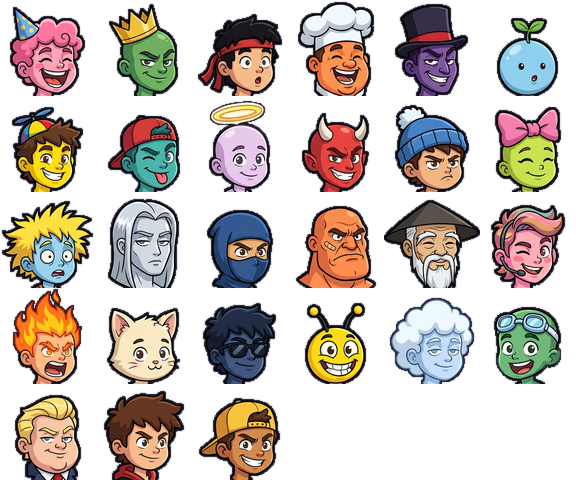
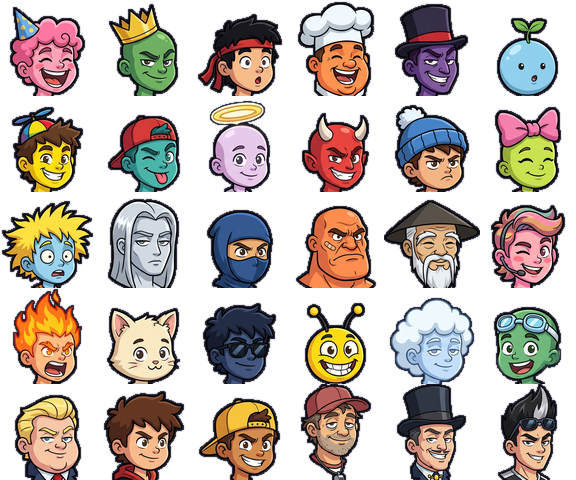
언더독 피구 v=37: 몸통 그림 14자세(달리기 4장·던지기·만세·공 들기·점프), 팀색 입히기, NPC 얼굴 3명(모 코치·개발업자·반스)
- 그린 몸 시트 art_game/body/body_{hi,lo}.webp (몸 그림 + 팀색/피부색 마스크), 팀×피부 조합마다 한 번만 칠해 캐시
- 달리기는 달린 거리에 맞춰 4장 순환, 공 들기 자세는 그림 속 공을 쓰고 게임 공은 숨김
- 노란 팀 + 노란 피부는 옷 색을 20% 어둡게
- 모 코치·개발업자·반스 = G.CHARS 27..29 (스토리 전용, 로스터 밖)
- ?oldbody=1 로 옛 몸

Changed region(s): [[0.6875, 0.7812, 0.8125, 1.0], [0.5, 0.7812, 0.6562, 1.0], [0.8438, 0.7812, 0.9688, 1.0]]

diff --git a/games/wobble-dodge/js/render.js b/games/wobble-dodge/js/render.js
@@ -79,12 +79,13 @@
      shows faces, so heads never pop mid-rally. G.faceHeads = false -> the old drawn heads (A/B and fallback). */
   var HD = { ok: false, img: null, white: null, cell: 64, n: 24 }, FR = 13.5 * 1.4, COSM = { star: 1, flower: 1, wizard: 1, pirate: 1, viking: 1, goldcrown: 1 };
   // tight box of each face inside its cell, in 1/64 cell units (x, y, w, h): only these pixels are drawn (about half the cell = half the raster work)
-  var HBOX = [8,5,48,59,9,3,45,61,4,10,55,54,7,2,49,62,8,3,47,61,12,12,39,52,9,7,46,57,8,13,47,51,12,4,40,60,10,11,43,53,8,6,48,58,10,7,43,57,2,6,59,58,9,5,46,59,10,13,43,51,6,9,52,55,1,7,62,57,8,9,48,55,10,1,44,63,8,14,48,50,8,10,48,54,12,11,39,53,5,7,54,57,10,13,43,51,10,8,43,56,6,5,52,59,5,10,53,54];   // heads_match sheet, all 27 G.CHARS (art_new/tools/match.py -> match_js.txt)
+  var HBOX = [8,5,48,59,9,3,45,61,4,10,55,54,7,2,49,62,8,3,47,61,12,12,39,52,9,7,46,57,8,13,47,51,12,4,40,60,10,11,43,53,8,6,48,58,10,7,43,57,2,6,59,58,9,5,46,59,10,13,43,51,6,9,52,55,1,7,62,57,8,9,48,55,10,1,44,63,8,14,48,50,8,10,48,54,12,11,39,53,5,7,54,57,10,13,43,51,10,8,43,56,6,5,52,59,5,10,53,54,9,1,45,63,9,1,45,63,13,1,38,63];   // heads_match sheet, all 30 G.CHARS incl. story NPCs 27..29 (art_new/tools/match.py -> match_js.txt)
   G.faceHeads = true; G.headSheet = HD;
   var VQ = (/\?v=[^&#]*/.exec((document.currentScript && document.currentScript.src) || '') || [''])[0];
   (function () {
     var vq = VQ;
     function go() {
+      loadBody();   // the illustrated body sheet comes with the faces (a match switches to both at once)
       var im = new Image(); im.decoding = 'async';
       im.onload = function () {
         function fin() {
@@ -109,8 +110,8 @@
   })();
   function useFaces(M) {
     if (!M.waitInput || M.st > 0.3) HD.kick();   // the tutorial now starts by itself (no tap): fetch during its intro so it never runs with old heads
-    if (M.fh === undefined) { if (HD.ok && G.faceHeads) M.fh = 1; else if (M.state === 'play' && !M.waitInput) M.fh = 0; }
-    else if (M.fh === 0 && HD.ok && G.faceHeads && M.state !== 'play') M.fh = 1;   // sheet came late: switch at the next break (KO / intro), never mid-rally
+    if (M.fh === undefined) { if (HD.ok && G.faceHeads && bodyReady(M)) M.fh = 1; else if (M.state === 'play' && !M.waitInput) { if (HD.ok && G.faceHeads && BODY.ok) { while (!prebake(M)); M.fh = 1; } else M.fh = 0; } }   // play began before the spread-out bakes finished (no intro): bake the rest now, once
+    else if (M.fh === 0 && HD.ok && G.faceHeads && bodyReady(M) && M.state !== 'play') M.fh = 1;   // sheet came late: switch at the next break (KO / intro), never mid-rally
     return M.fh === 1 && G.faceHeads;
   }
   function headSprite(c, b, e, now) {   // in head space (origin = head centre, x = facing, 1 unit = z*hs)
@@ -134,7 +135,7 @@
      team-colour jersey, white shorts + belly stripe) in a hip->neck frame; plain fills measured cheaper than strokes or a
      rotated sprite. No shadows / filters. LITE tier: no ink under legs / back arm (front arm + jersey keep theirs).
      Cost vs the stick bodies: 검증/body_perf.mjs (G.cartoonBody = false draws the old renderer for A/B). */
-  var SKIN = ['#fca5b8', '#72b263', '#f7bb89', '#fd9552', '#7c579a', '#8eceed', '#fdde0a', '#4bb4a9', '#e8c9eb', '#e4433e', '#f3b584', '#c9e251', '#9ad3ed', '#d3dae2', '#36588d', '#fd8d4e', '#e7ba88', '#feacb3', '#febc84', '#fae9c5', '#43567c', '#fddc13', '#c3defb', '#71b87b', '#f8c7a6', '#f9bb8b', '#d38b4d'];   // arm/neck colour sampled from the heads_match art (G.CHARS order, 27)
+  var SKIN = ['#fca5b8', '#72b263', '#f7bb89', '#fd9552', '#7c579a', '#8eceed', '#fdde0a', '#4bb4a9', '#e8c9eb', '#e4433e', '#f3b584', '#c9e251', '#9ad3ed', '#d3dae2', '#36588d', '#fd8d4e', '#e7ba88', '#feacb3', '#febc84', '#fae9c5', '#43567c', '#fddc13', '#c3defb', '#71b87b', '#f8c7a6', '#f9bb8b', '#d38b4d', '#f2b88c', '#f4c29d', '#f4c39a'];   // arm/neck colour sampled from the heads_match art (G.CHARS order, 30; Coach Mo hand-set: the sampler hit his stubble)
   var TORSO = {}, TL = 31, OL = 2.3;   // neck-hip length in skeleton units, ink outline thickness
   // local frame: hip = (0,0), neck = (0,-TL); o grows the shape by o on every side (for the ink silhouette)
   function jersey(P, th, o) {
@@ -228,11 +229,132 @@
     c.strokeStyle = INK; c.lineWidth = ow * 1.1; c.stroke(); c.strokeStyle = flash ? '#fff' : uni; c.lineWidth = lw * 1.15; c.stroke(); c.lineCap = 'round';
   }
   G.cartoonBody = true;
+  /* ---------- illustrated body (2026-11-09): art_game/body/body_{hi,lo}.webp, made by art_new/tools/body.py from art_new/body6_gemini_v1.png
+     + body8_gemini_v1.png (normalised to the same scale by the neck-stump width). 14 side-view poses, facing right, headless; the face
+     sheet head sits on the neck stump: idle, run (single, spare), wind-up, catch, hit, KO lying, run cycle x4, release, cheer, hold ball, jump.
+     The sheet has 3 rows: art / kit mask / skin mask. Per (team colour, skin) one row is baked ONCE (GPU composite: mask x colour
+     'multiply', clipped by the mask) and cached, so a frame is still one drawImage per body.
+     The skeleton still runs underneath (ball hand, hit tests, ragdoll); the sprite borrows its spring wobble (rotation), its bob / squash
+     (vertical scale) and the ragdoll torso angle. Running = the 4-frame cycle stepped by distance (one cycle per drawn stride, so the feet
+     do not slide). ?oldbody=1 or G.spriteBody = false -> the drawn cartoon body. */
+  var BM = {};
+  BM['hi'] = { rh: 243, m: [0.0, 56.0, 161.0, 187.0, 78.4, 3.3, 70.9, 76.2, 185.1, 167.0, 44.0, 150.0, 199.0, 91.5, 3.9, 76.3, 73.3, 197.1, 323.0, 35.0, 189.0, 208.0, 84.8, 15.9, 84.9, 90.0, 206.1, 518.0, 53.0, 180.0, 190.0, 84.2, 3.6, 63.2, 81.8, 188.1, 704.0, 30.0, 243.0, 213.0, 97.7, 42.0, 119.5, 101.4, 211.2, 953.0, 178.0, 192.0, 65.0, 188.4, 24.6, 117.9, 27.9, 63.6, 1151.0, 53.0, 162.0, 190.0, 95.2, 4.2, 79.4, 74.1, 188.6, 1319.0, 67.0, 159.0, 176.0, 92.6, 4.2, 73.6, 71.6, 174.0, 1484.0, 55.0, 158.0, 188.0, 102.9, 3.9, 82.2, 79.5, 186.6, 1648.0, 44.0, 154.0, 199.0, 88.6, 3.9, 72.4, 75.4, 197.0, 1808.0, 58.0, 217.0, 185.0, 108.5, 4.2, 89.4, 72.6, 183.1, 2031.0, 6.0, 161.0, 237.0, 84.8, 51.9, 88.3, 118.9, 235.7, 2198.0, 44.0, 119.0, 199.0, 43.8, 4.2, 38.4, 85.7, 197.7, 2323.0, 60.0, 175.0, 183.0, 101.0, 4.5, 85.3, 64.8, 181.1] };
+  BM['lo'] = { rh: 125, m: [0.0, 32.0, 80.0, 93.0, 39.2, 1.6, 35.4, 38.1, 92.5, 86.0, 26.0, 75.0, 99.0, 45.8, 1.9, 38.1, 36.7, 98.5, 167.0, 21.0, 95.0, 104.0, 42.4, 7.9, 42.4, 45.0, 103.0, 268.0, 30.0, 90.0, 95.0, 42.1, 1.8, 31.6, 40.9, 94.0, 364.0, 19.0, 121.0, 106.0, 48.9, 21.0, 59.8, 50.7, 105.6, 491.0, 92.0, 96.0, 33.0, 94.2, 12.3, 58.9, 13.9, 31.8, 593.0, 30.0, 81.0, 95.0, 47.6, 2.1, 39.7, 37.0, 94.3, 680.0, 37.0, 79.0, 88.0, 46.3, 2.1, 36.8, 35.8, 87.0, 765.0, 31.0, 79.0, 94.0, 51.5, 1.9, 41.1, 39.8, 93.3, 850.0, 26.0, 77.0, 99.0, 44.3, 1.9, 36.2, 37.7, 98.5, 933.0, 33.0, 109.0, 92.0, 54.2, 2.1, 44.7, 36.3, 91.5, 1048.0, 6.0, 80.0, 119.0, 42.4, 26.0, 44.1, 59.5, 117.8, 1134.0, 25.0, 60.0, 100.0, 21.9, 2.1, 19.2, 42.9, 98.8, 1200.0, 34.0, 88.0, 91.0, 50.5, 2.3, 42.6, 32.4, 90.6] };
+  // per pose (idle run throw catch hit out run0 run1 run2 run3 release cheer hold jump): box x,y,w,h, neck x,y, torso x,y, feet y (sheet px, relative to the box except x,y)
+  var BP = { idle: 0, run: 1, windup: 2, cat: 3, hit: 4, ko: 5, run0: 6, release: 10, cheer: 11, hold: 12, jump: 13 };
+  var STRIDE = 92;   // skeleton units the drawn feet travel in one 4-frame run cycle (2 steps; run0/run2 contact spread x2)
+  var BODY = { ok: false, fail: false, go: 0, img: null, m: null, rh: 0, u: 1, cache: {}, nc: 0 };
+  G.spriteBody = !/[?&]oldbody=1/.test(location.search); G.bodySheet = BODY;
+  function loadBody() {
+    if (BODY.go || !G.spriteBody) return; BODY.go = 1;
+    var hi = (window.devicePixelRatio || 1) >= 1.5 && !G.lite, S = BM[hi ? 'hi' : 'lo'], im = new Image(); im.decoding = 'async';
+    im.onload = function () { function fin() { BODY.img = im; BODY.m = S.m; BODY.rh = S.rh; BODY.u = 71 / (S.m[8] - S.m[5]); BODY.ok = true; } if (im.decode) im.decode().then(fin, fin); else fin(); };   // u = skeleton units per sheet px (idle: neck->feet = 71 units)
+    im.onerror = function () { BODY.fail = true; };
+    im.src = 'art_game/body/body_' + (hi ? 'hi' : 'lo') + '.webp' + VQ;
+  }
+  function bodyReady(M) { return !G.spriteBody || BODY.fail || (BODY.ok && (!M || prebake(M))); }
+  function kitOf(b, uni) { var C = G.CHARS[b.ch], F = C && C.fit ? FIT[C.fit] : null; return F ? F.top : uni; }
+  function prebake(M) {   // bake each body's colour row ahead, ONE a frame (a bake ~16 ms at CPU x4, software canvas), before the match switches to sprites
+    if (M.bodyBaked) return true; var n = 0, all = true;
+    for (var i = 0; i < M.bodies.length; i++) {
+      var b = M.bodies[i], td = b.team ? M.team : M.myTm || G.MYTEAM, kit = kitOf(b, td.uni), sk = SKIN[b.ch];
+      if (BODY.cache[kit + sk]) continue;
+      if (n++ < 1) bodyRow(kit, sk); else all = false;
+    }
+    if (!BODY.cache.flash) { if (n++ < 1) bodyRow('flash', ''); else all = false; }   // the white hit-flash row too
+    return (M.bodyBaked = all);
+  }
+  function rgbOf(h) { var x = h.length === 4 ? '#' + h[1] + h[1] + h[2] + h[2] + h[3] + h[3] : h, n = parseInt(x.slice(1), 16); return isNaN(n) ? null : [n >> 16, (n >> 8) & 255, n & 255]; }
+  function kitVsSkin(kit, skin) {   // a kit too close to the skin (yellow team + yellow kid) melts into one blob: darken that kit 20%
+    var a = rgbOf(kit), b2 = rgbOf(skin); if (!a || !b2) return kit;
+    var d = Math.sqrt(Math.pow(a[0] - b2[0], 2) + Math.pow(a[1] - b2[1], 2) + Math.pow(a[2] - b2[2], 2));
+    return d > 80 ? kit : 'rgb(' + Math.round(a[0] * 0.8) + ',' + Math.round(a[1] * 0.8) + ',' + Math.round(a[2] * 0.8) + ')';
+  }
+  function bodyRow(kit, skin) {   // the art row with the kit in `kit` and the skin in `skin` (or the white hit-flash row when kit === 'flash')
+    var key = kit + skin, cv = BODY.cache[key]; if (cv) return cv;
+    if (BODY.nc > 48) { BODY.cache = {}; BODY.nc = 0; }
+    var im = BODY.img, w = im.width, rh = BODY.rh;
+    cv = document.createElement('canvas'); cv.width = w; cv.height = rh; var g = cv.getContext('2d');
+    g.drawImage(im, 0, 0, w, rh, 0, 0, w, rh);
+    if (kit === 'flash') { g.globalCompositeOperation = 'source-atop'; g.fillStyle = 'rgba(255,255,255,0.8)'; g.fillRect(0, 0, w, rh); }
+    else {
+      var t = BODY.tmp; if (!t || t.width !== w || t.height !== rh) { t = BODY.tmp = document.createElement('canvas'); t.width = w; t.height = rh; } var tg = t.getContext('2d');   // one scratch canvas for every bake
+      [[1, kitVsSkin(kit, skin)], [2, skin]].forEach(function (L) {
+        tg.globalCompositeOperation = 'copy'; tg.drawImage(im, 0, L[0] * rh, w, rh, 0, 0, w, rh);
+        tg.globalCompositeOperation = 'multiply'; tg.fillStyle = L[1]; tg.fillRect(0, 0, w, rh);
+        tg.globalCompositeOperation = 'destination-in'; tg.drawImage(im, 0, L[0] * rh, w, rh, 0, 0, w, rh);
+        g.drawImage(t, 0, 0);
+      });
+    }
+    BODY.nc++; return (BODY.cache[key] = cv);
+  }
+  function runFrame(b) {   // run cycle frame from the distance run (game.js runPh = distance * 0.075), one cycle per drawn stride at this size
+    var d = (b.runPh || 0) / 0.075, st = STRIDE * (b.sc || 1) * (0.4 + 0.6 * (b.th || 1));
+    return ((Math.floor(d / st * 4) % 4) + 4) % 4;
+  }
+  function bodyPose(b, p) {
+    if (b.mode === 'rag') {
+      var lying = !b.flipping && b.ragT > 0.3 && p[3] > b.ry - 34 * b.sc && p[5] > b.ry - 34 * b.sc;   // neck and hip both down near the floor
+      return lying ? BP.ko : BP.hit;
+    }
+    if (b.cheer) return BP.cheer;
+    if (b.charging) return BP.windup;
+    if (b.throwT > 0) return BP.release;
+    if (b.catchT > 0 || (b.hold && b.kbRemain > 0.5)) return BP.cat;   // + sliding back with a caught ball: still the catch
+    if (b.h > 1) return BP.jump;
+    if (b.spd > 30) return BP.run0 + runFrame(b);
+    if (b.hold) return BP.hold;
+    return BP.idle;
+  }
+  var ang = function (x, y) { return Math.atan2(x, -y); };   // angle of a vector from straight up, clockwise
+  function drawSprite(c, b, uni, col, now) {
+    var p = P, k = bodyPose(b, p), M0 = BODY.m, j = k * 9, bx = M0[j], by = M0[j + 1], bw = M0[j + 2], bh = M0[j + 3], nx = M0[j + 4], ny = M0[j + 5], tx = M0[j + 6], ty = M0[j + 7], fy = M0[j + 8];
+    var th = b.th || 1, hs = b.hs || 1, bd = b.bd, z = b.sc, f = b.face < 0 ? -1 : 1;
+    var hg = bd ? (40 * bd.lL / 21 + bd.tL) / 71 : 1, sx = (0.4 + 0.6 * th) * z * BODY.u, sy = hg * z * BODY.u;
+    var row = b.flash > 0 ? bodyRow('flash', '') : bodyRow(kitOf(b, uni), col), tg = b.tg;
+    // wobble = how far the springs lag behind the pose target (torso and head), so the sprite still sways / jiggles like the old body
+    var vxn = p[2] - p[4], vyn = p[3] - p[5], wob = 0, hw = ang(p[0] - p[2], p[1] - p[3]) - ang(vxn, vyn), rot = 0, oy = 0, hrot = 0;
+    if (tg) wob = (ang(vxn, vyn) - ang(tg[2] - tg[4], tg[3] - tg[5])) * f;
+    if (tg) hw -= ang(tg[0] - tg[2], tg[1] - tg[3]) - ang(tg[2] - tg[4], tg[3] - tg[5]);
+    c.save(); if (b.role === 'toOut' || b.role === 'toIn') c.globalAlpha = 0.55;
+    if (k === BP.hit && b.mode === 'rag') {   // tumbling: the sprite's torso axis follows the ragdoll's hip->neck
+      rot = ang(vxn * f, vyn) - ang(nx - tx, ny - ty);
+      c.translate((p[2] + p[4]) / 2, (p[3] + p[5]) / 2); c.scale(f, 1); c.rotate(rot); c.scale(sx * 0.95, sy * 0.95); c.translate(-tx, -ty);
+    } else if (k === BP.ko) {   // lying: lies the way the ragdoll lies (neck side), feet on the floor
+      var nd = p[2] >= p[4] ? 1 : -1; f = nd;
+      c.translate((p[2] + p[4]) / 2, b.ry + 2 * z); c.scale(f, 1); c.scale(sx, sy * 0.95); c.translate(-tx, -fy);
+      hrot = Math.PI / 2;
+    } else {
+      var hs0 = tg ? Math.max(20, b.ry - tg[3]) : 71 * z * hg, sq = clamp((b.ry - p[3]) / hs0, 0.88, 1.12);   // squash / stretch from the skeleton's neck height (bob, landing, springs)
+      if (k === BP.cheer) { sq = 1; oy = -Math.max(0, b.ry - Math.max(p[17], p[21])); }   // cheer: the skeleton hops (feet leave the floor) -> lift the sprite with it
+      else if (k >= BP.run0 && k < BP.run0 + 4) sq = 1 + (sq - 1) * 0.4;   // the run frames carry their own bob
+      rot += clamp(wob, -0.45, 0.45) * 0.9;
+      c.translate(b.rx, b.ry + oy); c.scale(f, 1); c.rotate(rot); c.scale(sx / sq * 0.5 + sx * 0.5, sy * sq); c.translate(-tx, -fy);
+    }
+    c.drawImage(row, bx, by, bw, bh, 0, 0, bw, bh);   // the pose box
+    // head: on the neck stump, along the body's up axis, upright size (undo the body's x/y stretch)
+    c.translate(nx, ny); c.scale(1 / sx, 1 / sy); c.rotate(hrot + clamp(hw * f, -0.6, 0.6) * 0.8); c.scale(z * hs, z * hs); c.translate(0, -FR * 0.62);
+    headSprite(c, b, b.eyes, now);
+    c.restore();
+  }
+  // where the ball sits when held (game.js asks every step): the hand of the drawn pose, in hi-sheet px relative to the pose box
+  // idle front fist, wind-up raised hand, catch hands, run cycle = carried in front of the chest, hold = the ball drawn in the art (game ball hidden), jump
+  var HAND = { 0: [140, 43], 2: [17, 14], 3: [147, 46], 6: [118, 80], 7: [118, 80], 8: [118, 80], 9: [118, 80], 12: [84, 61], 13: [128, 92] }, HQ = { x: 0, y: 0 };
+  function spriteOn(b) { var M = G.M; return G.spriteBody && BODY.ok && M && M.fh === 1 && b.mode === 'stand' && b.role !== 'toOut' && b.role !== 'toIn'; }
+  G.ballHand = function (b) {
+    if (!spriteOn(b)) return null;
+    var k = bodyPose(b, P), h = HAND[k]; if (!h) return null;
+    var m = BM.hi.m, j = k * 9, u = 71 / (m[8] - m[5]), bd = b.bd, hg = bd ? (40 * bd.lL / 21 + bd.tL) / 71 : 1, z = b.sc;
+    HQ.x = b.rx + (b.face < 0 ? -1 : 1) * (h[0] - m[j + 6]) * u * (0.4 + 0.6 * (b.th || 1)) * z;
+    HQ.y = b.ry - (m[j + 8] - h[1]) * u * hg * z; return HQ;
+  };
+  function ballInArt(B) { return B.st === 'held' && B.holder && spriteOn(B.holder) && bodyPose(B.holder, P) === BP.hold; }   // the hold pose draws its own ball
   function drawBody(c, b, uni, now, fh) {
     var i, z = b.sc, col = b.flash > 0 ? '#ffffff' : b.skin, out = INK, th = b.th || 1, hs = b.hs || 1, zt = z * th;
     fh = fh && b.ch >= 0 && b.ch < (b.sheet || HD).n;
     for (i = 0; i < 11; i++) { P[i * 2] = b.pts[i].x; P[i * 2 + 1] = b.pts[i].y; }
     var p = P;
+    if (fh && G.spriteBody && BODY.ok) { drawSprite(c, b, uni, b.flash > 0 ? '#fff' : SKIN[b.ch], now); return; }
     c.save(); if (b.role === 'toOut' || b.role === 'toIn') c.globalAlpha = 0.55;
     c.lineCap = 'round'; c.lineJoin = 'round';
     if (G.cartoonBody) {
@@ -508,7 +630,7 @@
     for (i = 0; i < ents.length; i++) {
       var e = ents[i];
       if (e.b) { var td = e.b.team ? M.team : M.myTm || G.MYTEAM; drawBody(c, e.b, td.uni, now, fh); if ((e.b.charging || e.b.sweatT > 0) && e.b.mode !== 'rag') sweat(c, e.b, now); }   // 💦 effort sweat while winding up AND for a beat after a charged throw (2026-11-03)
-      else if (e.B.alive && !(e.B.st === 'held' && e.B.holder.mode === 'rag')) drawBall(c, e.B, now);
+      else if (e.B.alive && !(e.B.st === 'held' && e.B.holder.mode === 'rag') && !ballInArt(e.B)) drawBall(c, e.B, now);
     }
     // my marker + catch timing ring
     if (me) {
@@ -663,10 +785,10 @@
   G.drawChar = function (c, ch, x, y, hpx, now, uni, cheer, flip, hat) {
     var s = hpx / 135, S = null;
     if (G.faceHeads) {
-      HD.kick(); bigSheet();
+      HD.kick(); bigSheet(); loadBody();
       var m = c.getTransform ? c.getTransform() : null, k = m ? Math.sqrt(m.a * m.a + m.b * m.b) : 1, rpx = FR * s * k;   // head radius in device px
       S = (rpx > 34 || !HD.ok) && HB.ok ? HB : HD.ok ? HD : HB.ok ? HB : null;
-      if (!S) return;
+      if (!S || !bodyReady()) return;
     }
     var b = G.posed(ch, 0, now, cheer); if (hat) b.hat = hat; b.sheet = S;
     c.save(); c.translate(x, y); c.scale(flip ? -s : s, s); drawBody(c, b, uni || '#2a7fd4', now, !!S); c.restore();

diff --git a/games/wobble-dodge/js/i18n.js b/games/wobble-dodge/js/i18n.js
@@ -49,7 +49,7 @@
       pickHintK: 'Arrows: choose · J/Enter: pick · K: remove · Space: READY',
       stPow: 'POWER', stSpd: 'SPEED', stCat: 'CATCH', special: 'SPECIAL',
       foePick: 'Friend: picking...', foeReady: 'Friend: READY!', waitFoe: 'Waiting for your friend...', foeTeam: 'RIVALS', cdReady: 'READY!', cdFight: 'DODGE!',
-      ch12: 'Zappy', ch13: 'Swooshy', ch14: 'Scarfy', ch15: 'Hulky', ch16: 'Grampy', ch17: 'Twinkle', ch18: 'Blazey', ch19: 'Meowy', ch20: 'Cooly', ch21: 'Buzzy', ch22: 'Puffy', ch23: 'Goggly', ch24: 'Gold Boss', ch25: 'Rudy', ch26: 'Dex',
+      ch12: 'Zappy', ch13: 'Swooshy', ch14: 'Scarfy', ch15: 'Hulky', ch16: 'Grampy', ch17: 'Twinkle', ch18: 'Blazey', ch19: 'Meowy', ch20: 'Cooly', ch21: 'Buzzy', ch22: 'Puffy', ch23: 'Goggly', ch24: 'Gold Boss', ch25: 'Rudy', ch26: 'Dex', ch27: 'Coach Mo', ch28: 'The Developer', ch29: 'Vance',
       sp_zap: 'ZAP ZAP', sp_sway: 'SWAYING GOURD', sp_fireball: 'HOT POTATO', ss_zap: 'bzzt! bzzt! bzzt!', ss_sway: 'whoa... where is it going?', ss_fireball: 'blazing fast!',
       ch0: 'Curly', ch1: 'Toot Boss', ch2: 'Clucky', ch3: 'Big Belly', ch4: 'Twinny', ch5: 'Snoozy', ch6: 'Spinny', ch7: 'Ziggy', ch8: 'Peekaboo', ch9: 'Flippy', ch10: 'Sniffles', ch11: 'Boingo',
       winSub: 'You beat the {0}!', loseSub: 'The {0} won this time. Try again!', unlocked: 'New team unlocked!', allClear: 'You beat every team! Play any of them again for fun.',
@@ -111,7 +111,7 @@
       pickHintK: '방향키 고르기 · J/Enter 넣기 · K 빼기 · Space 준비',
       stPow: '힘', stSpd: '속도', stCat: '받기', special: '필살',
       foePick: '친구: 고르는 중...', foeReady: '친구: 준비 완료!', waitFoe: '친구를 기다리는 중...', foeTeam: '상대 팀', cdReady: '준비!', cdFight: '피구 시작!',
-      ch12: '찌릿이', ch13: '휘날이', ch14: '목도리', ch15: '우람이', ch16: '호리병 할배', ch17: '반짝이', ch18: '활활이', ch19: '냥냥이', ch20: '선글이', ch21: '윙윙이', ch22: '뭉게', ch23: '고글이', ch24: '골드 보스', ch25: '루디', ch26: '덱스',
+      ch12: '찌릿이', ch13: '휘날이', ch14: '목도리', ch15: '우람이', ch16: '호리병 할배', ch17: '반짝이', ch18: '활활이', ch19: '냥냥이', ch20: '선글이', ch21: '윙윙이', ch22: '뭉게', ch23: '고글이', ch24: '골드 보스', ch25: '루디', ch26: '덱스', ch27: '모 코치', ch28: '개발업자', ch29: '반스',
       sp_zap: '찌릿찌릿 슛', sp_sway: '흔들 호리병 슛', sp_fireball: '뜨거운 감자 슛', ss_zap: '찌릿! 찌릿! 찌릿!', ss_sway: '어어... 어디로 가?', ss_fireball: '엄청 빠르다!',
       ch0: '뽀글이', ch1: '뿡대장', ch2: '꼬꼬댁', ch3: '왕배꼽', ch4: '쌍쌍이', ch5: '쿨쿨이', ch6: '빙글이', ch7: '지그잭', ch8: '투명이', ch9: '휘리릭', ch10: '에취왕', ch11: '통통이',
       winSub: '{0}을(를) 이겼어요!', loseSub: '이번엔 {0}이(가) 이겼어요. 다시 해 봐요!', unlocked: '새 팀이 열렸어요!', allClear: '모든 팀을 이겼어요! 아무 팀이나 다시 해도 재밌어요.',

diff --git a/games/wobble-dodge/js/game.js b/games/wobble-dodge/js/game.js
@@ -91,9 +91,13 @@
     // 24 GOLD BOSS (new): rich tycoon, money shot. slicked blond hair + navy suit + red tie + pot belly.
     { skin: '#f0c89a', hat: 'slick', hs: 1.05, th: 1.55, st: [5, 1, 4], sp: 'money', fit: 'suit', drawn: 1, isNew: 1, bd: { broad: 0.06 } },
     { skin: '#f5c69a', hat: 'hero', hs: 1.0, th: 0.9, st: [1, 4, 4], sp: 'boomer', story: 1, fit: 'hoodie' },   // 25 HERO
-    { skin: '#a8693f', hat: 'dexcap', hs: 1.0, th: 0.95, st: [3, 5, 2], sp: 'zigzag', story: 1, fit: 'tee' }    // 26 DEX
+    { skin: '#a8693f', hat: 'dexcap', hs: 1.0, th: 0.95, st: [3, 5, 2], sp: 'zigzag', story: 1, fit: 'tee' },   // 26 DEX
+    // story NPCs with their own face art (2026-11-09, art_new/npc3_gemini_v1.png): never in the roster / random fill (all loops stop at NROSTER)
+    { skin: '#f2b88c', hat: 'none', hs: 1.05, th: 1.15, st: [3, 2, 5], sp: 'slow', story: 1 },   // 27 COACH MO (comics, result-card coach)
+    { skin: '#f4c29d', hat: 'none', hs: 1.05, th: 1.3, st: [5, 1, 4], sp: 'money', story: 1, fit: 'suit' },   // 28 THE DEVELOPER (comics)
+    { skin: '#f4c39a', hat: 'none', hs: 1.0, th: 1.0, st: [4, 3, 2], sp: 'boomer', story: 1, bd: { tall: 0.05 } }   // 29 VANCE, final boss (plays in the final + the last chapter; stats = Cooly's, who stood in before)
   ];
-  G.NROSTER = 25; G.GOLDBOSS = 24; G.HERO = 25; G.DEX = 26;
+  G.NROSTER = 25; G.GOLDBOSS = 24; G.HERO = 25; G.DEX = 26; G.COACH = 27; G.DEV = 28; G.VANCE = 29;
   /* ---------- COMMAND shots (fighting-game motion + THROW) ----------
      seq: directions relative to the rivals: F = toward them, B = back, U = up (far side), D = down (near side).
      The motion must be entered within CMD_WIN s before THROW is pressed (or released), the last direction within CMD_LAST s.
@@ -505,7 +509,7 @@
     }
   }
   function ballStep(M, B) {
-    if (B.st === 'held') { var hb = B.holder, hp = hb.pts[4]; B.x = hp.x + hb.face * 3; B.z = hb.z; B.h = Math.max(B.r, FY(hb.z) - hp.y); B.vx = B.vz = B.vh = 0; return; }
+    if (B.st === 'held') { var hb = B.holder, hp = (G.ballHand && G.ballHand(hb)) || hb.pts[4]; B.x = hp.x + hb.face * 3; B.z = hb.z; B.h = Math.max(B.r, FY(hb.z) - hp.y); B.vx = B.vz = B.vh = 0; return; }   // G.ballHand: illustrated body -> the ball sits in the drawn hands
     B.lx = B.x; B.lz = B.z; B.lh = B.h; B.t += DT;
     if (B.path) pathStep(M, B);
     else {

diff --git a/games/wobble-dodge/js/pick.js b/games/wobble-dodge/js/pick.js
@@ -7,7 +7,7 @@
   'use strict';
   var G = window.G;
   var IDS = ['curly', 'tootboss', 'clucky', 'bigbelly', 'twinny', 'snoozy', 'spinny', 'ziggy', 'peekaboo', 'flippy', 'sniffles', 'boingo',
-    'zappy', 'swooshy', 'scarfy', 'hulky', 'grampy', 'twinkle', 'blazey', 'meowy', 'cooly', 'buzzy', 'puffy', 'goggly', 'goldboss', 'hero', 'dex'];   // 24 = gold boss (in the grid); 25,26 = the story kids (not in the grid)
+    'zappy', 'swooshy', 'scarfy', 'hulky', 'grampy', 'twinkle', 'blazey', 'meowy', 'cooly', 'buzzy', 'puffy', 'goggly', 'goldboss', 'hero', 'dex', 'coachmo', 'developer', 'vance'];   // 24 = gold boss (in the grid); 25,26 = the story kids, 27..29 story NPCs (not in the grid; Vance shows on the final's VS screen)
   G.addStr({
     en: {
       cp0: 'Party time! Let\'s bounce!', cp1: 'Make way! The Boss is here!', cp2: 'Bawk! Can\'t catch me!', cp3: 'Belly power... BOOM!', cp4: 'Which ball is real? Hehe!', cp5: 'Zzz... I\'ll catch it all...',

diff --git a/games/wobble-dodge/index.html b/games/wobble-dodge/index.html
@@ -188,13 +188,13 @@ input{user-select:text;-webkit-user-select:text;font:inherit;border:3px solid #1
     <button class="btn" id="bQuit" data-i18n="menu"></button>
   </div>
 </div>
-<script src="js/i18n.js?v=36"></script>
-<script src="js/audio.js?v=36"></script>
-<script src="js/sdk.js?v=36"></script>
-<script src="js/meta.js?v=36"></script>
-<script src="js/game.js?v=36"></script>
-<script src="js/render.js?v=36"></script>
-<script src="js/net.js?v=36"></script>
-<script src="js/main.js?v=36"></script>
+<script src="js/i18n.js?v=37"></script>
+<script src="js/audio.js?v=37"></script>
+<script src="js/sdk.js?v=37"></script>
+<script src="js/meta.js?v=37"></script>
+<script src="js/game.js?v=37"></script>
+<script src="js/render.js?v=37"></script>
+<script src="js/net.js?v=37"></script>
+<script src="js/main.js?v=37"></script>
 </body>
 </html>

diff --git a/games/wobble-dodge/js/story.js b/games/wobble-dodge/js/story.js
@@ -4,9 +4,9 @@
 (function () {
   'use strict';
   var G = window.G, S = G.story = {}, TAU = Math.PI * 2, INK = '#1b1b2f';
-  S.HERO = G.HERO; S.COACH = 3; S.DEX = G.DEX; S.DEV = 1; S.CAPT = 6;   // character ids used in the comics
+  S.HERO = G.HERO; S.COACH = G.COACH; S.DEX = G.DEX; S.DEV = G.DEV; S.CAPT = 6;   // character ids used in the comics (coach / developer / Vance = own NPC faces since 2026-11-09)
   // the ringleader from gym class: captain of the developer's team in the final, and the one you play in the final chapter. Swap his look here.
-  S.BOSS = { ch: 20, hat: 'shades', uni: '#c9a227' };
+  S.BOSS = { ch: G.VANCE, hat: 'shades', uni: '#c9a227' };
   var TXT = {
     en: {
       nmCoach: 'Coach Mo', rvName: 'Dex', bsName: 'Vance', tBoss: 'Glossworth Platinum', stNext: 'CONTINUE ▶', stTap: 'TAP ▶', stSkip: 'SKIP ▶▶',
